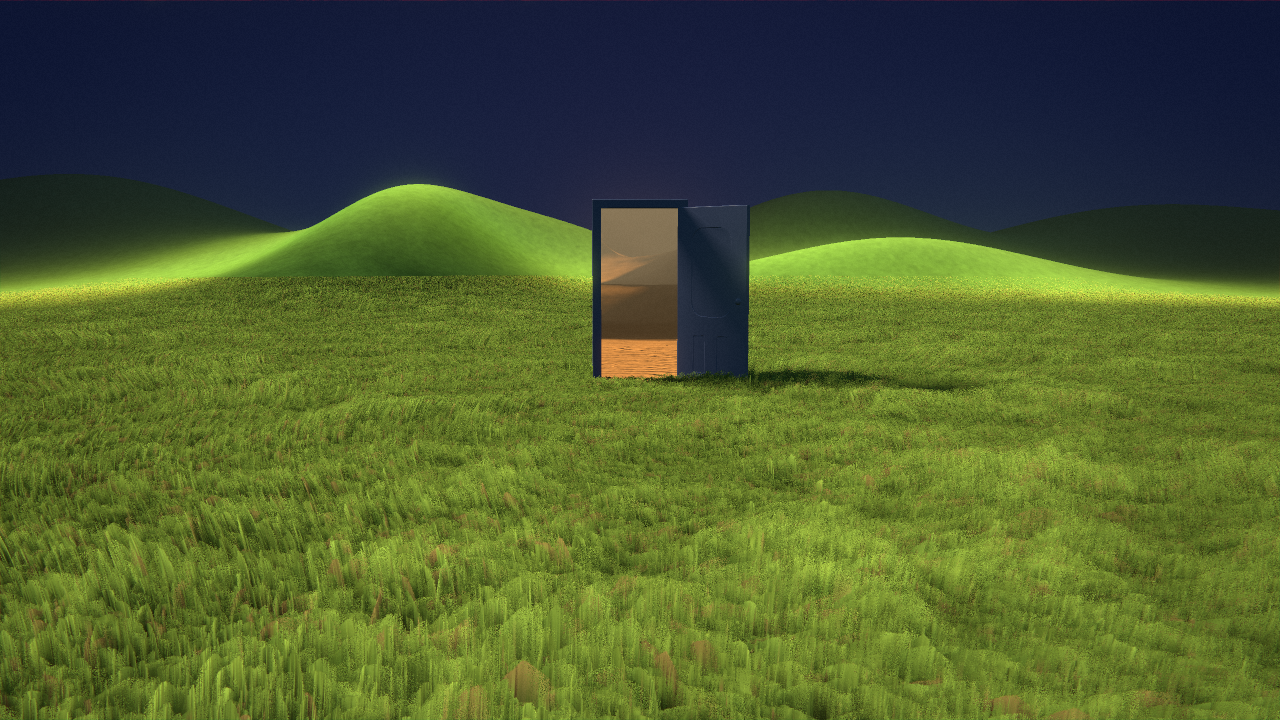
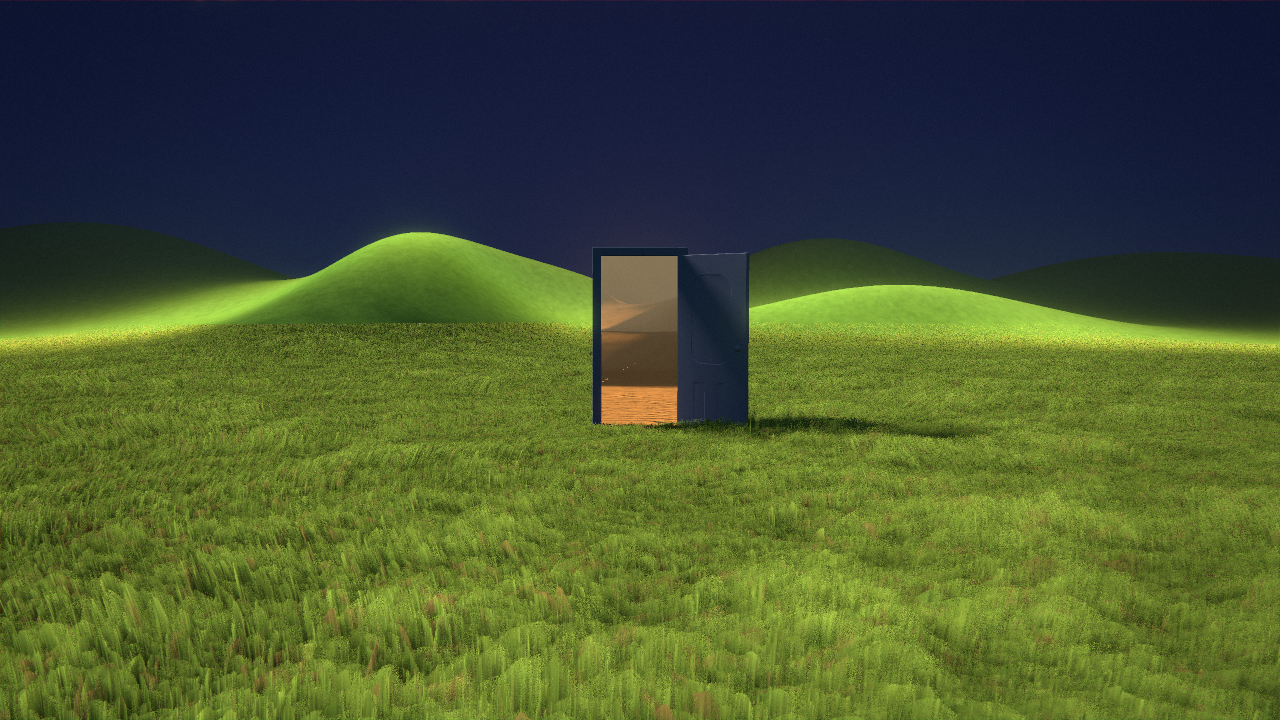
docs(dreamcore): tilt the camera up for more sky and less grass
Pitch goes from -0.11 to -0.06 rad, so the horizon sits lower in the frame: the
sky takes about 42% of the height instead of 36%, and the door drops a little.

Claude-Session: https://claude.ai/code/session_017PAyStfp59dbnWGB4mvN35

diff --git a/apps/docs/lib/examples-source.generated.ts b/apps/docs/lib/examples-source.generated.ts
@@ -82,7 +82,7 @@ export const exampleSources = {
     {
       "name": "example.ts",
       "lang": "typescript",
-      "code": "import type { Effect, Frame, Gpu, Surface, Target } from 'vgpu';\n\nimport bloomBlurWgsl from './bloom-blur.wgsl';\nimport bloomDownWgsl from './bloom-down.wgsl';\nimport bloomUpWgsl from './bloom-up.wgsl';\nimport brightPassWgsl from './bright-pass.wgsl';\nimport { createGrassTile, renderGrassTile, type GrassTile } from './grass-tile';\nimport postWgsl from './post.wgsl';\nimport sceneWgsl from './scene.wgsl';\n\ntype Output = Surface | Target;\n\ninterface ThumbOptions {\n  warmupFrames?: number;\n  dt?: number;\n  /** Seconds into the day/night cycle to freeze. */\n  time?: number;\n}\n\nexport interface DreamcoreFrameOptions {\n  /** 0 = night with the door glowing, 1 = full day. */\n  phase: number;\n  /** Seconds, only drives film grain. */\n  time?: number;\n  /** Samples per pixel: 1 for live rendering, 4 for quick stills, 9 or 16 for final renders. */\n  samples?: 1 | 4 | 9 | 16;\n  /** Full-quality grass march (96 steps); off drops to 28 steps for a cheaper live frame. */\n  grassShadows?: boolean;\n  /** Wind amplitude for the blades (0 for stills). */\n  wind?: number;\n  /**\n   * Debug views of the sand world behind the door: 1 = free camera at a door-local position,\n   * 2 = top-down map, 3 = the main camera inside the sand world (door and opening marked),\n   * 4 = the same without overlays.\n   */\n  debug?: { mode: 1 | 2 | 3 | 4; camera?: readonly [number, number, number] };\n  /** Camera and door overrides on top of LOOK, for exploring alternative framings. */\n  look?: DreamcoreLookOverrides;\n}\n\nexport interface DreamcoreLookOverrides {\n  camera?: Partial<{ height: number; pitch: number; fovY: number }>;\n  door?: Partial<{ x: number; z: number; yaw: number; leaf: number }>;\n  /** Flat sand of the sand world: where it starts falling away (m behind the sill), fall (tan), hollow depth (m, negative). */\n  plain?: Partial<{ tiltFrom: number; tilt: number; far: number }>;\n  /** The near dune beyond the hollow: start (m behind the sill), face slope (tan), crest (m), toe line skew (tan). */\n  dune?: Partial<{ start: number; slope: number; crest: number; skew: number }>;\n  /** Wind ripples on the flat sand: amplitude (m), wavelength (m), distance from the camera where they have faded (m), crest position (0..1 of the period, low = steep side toward the door). */\n  sand?: Partial<{ rippleAmp: number; rippleLen: number; rippleFade: number; rippleCrest: number }>;\n}\n\n/** One level of the bloom mip chain: its own blurred glow and the glow gathered from below. */\ninterface BloomLevel {\n  down: Effect | null;   // null on level 0, which the bright pass fills\n  blurH: Effect;\n  blurV: Effect;\n  up: Effect | null;     // null on the smallest level, which has nothing below it\n}\n\ninterface Effects {\n  scene: Effect;\n  grassTile: GrassTile;\n  brightPass: Effect;\n  bloom: BloomLevel[];\n  post: Effect;\n  sampler: GPUSampler;\n}\n\ninterface BloomTargets {\n  glow: Target;   // this level's blurred glow\n  temp: Target;   // half of the separable blur\n  acc: Target;    // glow gathered from this level down\n}\n\ninterface Targets {\n  scene: Target;\n  bloom: BloomTargets[];\n}\n\n/**\n * Unreal-style bloom: the bright pass lands at half resolution, then a chain of ever smaller\n * mips is downsampled, blurred one texel per tap, and summed back up through tent filters,\n * so the halo reaches across the frame without any pass skipping pixels.\n */\nconst BLOOM_LEVELS = 5;\nconst BLOOM_SIGMA = 2.6;\n/** Weight of each level's own glow when summing back up; the small mips carry the wide halo. */\nconst BLOOM_WEIGHTS = [0.45, 0.3, 0.25, 0.2, 0.2];   // per level, summing to about 1.4 so a large bright area does not pile up its own glow\n\nconst HDR_FORMAT: GPUTextureFormat = 'rgba16float';\nconst CLEAR: readonly [number, number, number, number] = [0, 0, 0, 1];\n\n/** Scene constants measured against the reference photos; see scene.wgsl for the units. */\nexport const LOOK = {\n  /** Standing eye height, level horizon; same vertical FOV for any aspect. */\n  camera: { height: 1.5, pitch: -0.11, fovY: 0.733 },\n  door: { x: 0, z: 11, yaw: 0, leaf: 2.5 },\n  sun: { azimuth: -1.15, elevation: 0.72 },\n  texture: 1,\n  doorLight: 10,\n  /** Blade patch around the door (radius in metres) and tallest blade height. */\n  grass: { radius: 60, height: 0.32 },\n  /** Rippled flat sand falling into a hollow, a backlit dune running in from the right, dunes growing to the horizon. */\n  plain: { tiltFrom: 3.0, tilt: 0.06, far: -3.0 },\n  dune: { start: 36, slope: 0.45, crest: 2.0, skew: 1.0 },\n  sand: { rippleAmp: 0.04, rippleLen: 0.35, rippleFade: 26, rippleCrest: 0.32 },\n  post: { exposure: 1.3, bloomStrength: 0.95, grain: 0.02, vignette: 0.3, nightThreshold: 0.16, dayThreshold: 0.7, knee: 0.1 },\n} as const;\n\n/** Night holds, the day sweeps out of the door, holds, then the night flows back in. */\nexport const CYCLE_SECONDS = 16;\n\n/** Default free-camera position (door-local metres) for the sand-world debug view. */\nconst DEBUG_CAMERA: readonly [number, number, number] = [-11, 4.5, -7];\n\nexport function phaseAt(seconds: number): number {\n  const t = ((seconds % CYCLE_SECONDS) + CYCLE_SECONDS) % CYCLE_SECONDS;\n  if (t < 2.5) return 0;\n  if (t < 9) return ease((t - 2.5) / 6.5);\n  if (t < 12.5) return 1;\n  return 1 - ease((t - 12.5) / 3.5);\n}\n\nfunction ease(x: number): number {\n  const c = Math.min(1, Math.max(0, x));\n  return c * c * (3 - 2 * c);\n}\n\nexport async function run(canvas: HTMLCanvasElement): Promise<() => void> {\n  const { init } = await import('vgpu');\n  const gpu = await init();\n  const surface = gpu.surface(canvas, { dpr: [1, 1.5] });\n  const effects = createEffects(gpu, 'dreamcore-live');\n  const targets = createTargets(gpu, surface.size, 'dreamcore-live');\n  let disposed = false;\n\n  setConstants(effects);\n  setBindings(effects, targets);\n  await prewarm(effects, targets, surface);\n  gpu.frame((frame) => renderGrassTile(frame, effects.grassTile));\n\n  let sawInitialResize = false;\n  const unsubscribeResize = surface.onResize(() => {\n    if (!sawInitialResize) {\n      sawInitialResize = true;\n      return;\n    }\n    if (disposed) return;\n    resizeTargets(targets, surface.size);\n    setBindings(effects, targets);\n  });\n\n  const handle = gpu.frame.loop((frame) => {\n    // Only the two animated values are written each frame; everything else stays as set.\n    setFrame(effects, { phase: phaseAt(gpu.time), time: gpu.time, samples: 1, grassShadows: false, wind: 1 });\n    renderChain(frame, effects, targets, surface);\n  });\n\n  return () => {\n    if (disposed) return;\n    disposed = true;\n    handle.stop();\n    unsubscribeResize();\n    surface.dispose();\n    gpu.dispose();\n  };\n}\n\nexport async function renderThumb(gpu: Gpu, target: Target, opts: ThumbOptions = {}): Promise<void> {\n  const effects = createEffects(gpu, 'dreamcore-thumb');\n  const targets = createTargets(gpu, target.size, 'dreamcore-thumb');\n  setConstants(effects);\n  setBindings(effects, targets);\n  await prewarm(effects, targets, target);\n  gpu.frame((frame) => renderGrassTile(frame, effects.grassTile));\n  const time = opts.time ?? 4.6;\n  renderFrame(gpu, effects, targets, target, { phase: phaseAt(time), time, samples: 4 });\n  await gpu.gpu.queue.onSubmittedWorkDone();\n  await gpu.settled();\n}\n\n/** Renders one still into `target`. Used by the headless keyframe script. */\nexport async function renderStill(gpu: Gpu, target: Target, frameOpts: DreamcoreFrameOptions): Promise<void> {\n  const effects = createEffects(gpu, 'dreamcore-still');\n  const targets = createTargets(gpu, target.size, 'dreamcore-still');\n  setConstants(effects);\n  setBindings(effects, targets);\n  await prewarm(effects, targets, target);\n  gpu.frame((frame) => renderGrassTile(frame, effects.grassTile));\n  renderFrame(gpu, effects, targets, target, frameOpts);\n  await gpu.gpu.queue.onSubmittedWorkDone();\n  await gpu.settled();\n}\n\nfunction createEffects(gpu: Gpu, label: string): Effects {\n  return {\n    scene: gpu.effect(sceneWgsl, { label: `${label}-scene` }),\n    grassTile: createGrassTile(gpu, 2048, `${label}-grass-tile`),\n    brightPass: gpu.effect(brightPassWgsl, { label: `${label}-bright-pass` }),\n    // Every pass owns its effect, and so its uniform buffer; sharing one would make each\n    // pass observe the last values written in the frame.\n    bloom: Array.from({ length: BLOOM_LEVELS }, (_, i) => ({\n      down: i === 0 ? null : gpu.effect(bloomDownWgsl, { label: `${label}-bloom-down-${i}` }),\n      blurH: gpu.effect(bloomBlurWgsl, { label: `${label}-bloom-blur-h-${i}` }),\n      blurV: gpu.effect(bloomBlurWgsl, { label: `${label}-bloom-blur-v-${i}` }),\n      up: i === BLOOM_LEVELS - 1 ? null : gpu.effect(bloomUpWgsl, { label: `${label}-bloom-up-${i}` }),\n    })),\n    post: gpu.effect(postWgsl, { label: `${label}-post` }),\n    sampler: gpu.sampler({ minFilter: 'linear', magFilter: 'linear', addressModeU: 'repeat', addressModeV: 'repeat' }),\n  };\n}\n\nfunction createTargets(gpu: Gpu, size: readonly [number, number], label: string): Targets {\n  const full = normalizeSize(size);\n  const bloom: BloomTargets[] = [];\n  let level = halfSize(full);\n  for (let i = 0; i < BLOOM_LEVELS; i++) {\n    bloom.push({\n      glow: gpu.target({ size: level, format: HDR_FORMAT, label: `${label}-bloom-${i}-glow` }),\n      temp: gpu.target({ size: level, format: HDR_FORMAT, label: `${label}-bloom-${i}-temp` }),\n      acc: gpu.target({ size: level, format: HDR_FORMAT, label: `${label}-bloom-${i}-acc` }),\n    });\n    level = halfSize(level);\n  }\n  return { scene: gpu.target({ size: full, format: HDR_FORMAT, label: `${label}-scene` }), bloom };\n}\n\nfunction setConstants(effects: Effects): void {\n  const { camera, door, sun, post, grass } = LOOK;\n  effects.scene.set({\n    params: {\n      time: 0,\n      phase: 0,\n      camera: [camera.height, camera.pitch, camera.fovY, 1],\n      door: [door.x, door.z, door.yaw, door.leaf],\n      look: [sun.azimuth, sun.elevation, LOOK.texture, LOOK.doorLight],\n      grass: [grass.radius, grass.height, 1, 0],\n      debug: [0, 0, 0, 0],\n      plain: [LOOK.plain.tiltFrom, LOOK.plain.tilt, 0, LOOK.plain.far],\n      dune: [LOOK.dune.start, LOOK.dune.slope, LOOK.dune.crest, LOOK.dune.skew],\n      sand: [LOOK.sand.rippleAmp, LOOK.sand.rippleLen, LOOK.sand.rippleFade, LOOK.sand.rippleCrest],\n    },\n  });\n  effects.brightPass.set({ samp: effects.sampler, bright: { threshold: post.nightThreshold, knee: post.knee } });\n  effects.bloom.forEach((level, i) => {\n    level.down?.set({ samp: effects.sampler });\n    level.blurH.set({ samp: effects.sampler, blur: { direction: [1, 0], sigma: BLOOM_SIGMA } });\n    level.blurV.set({ samp: effects.sampler, blur: { direction: [0, 1], sigma: BLOOM_SIGMA } });\n    level.up?.set({ samp: effects.sampler, up: { weight: BLOOM_WEIGHTS[i] ?? 1, _pad: 0 } });\n  });\n  effects.post.set({\n    samp: effects.sampler,\n    post: { exposure: post.exposure, bloomStrength: post.bloomStrength, grain: post.grain, vignette: post.vignette, seed: 0.37, _pad: 0 },\n  });\n}\n\nfunction setBindings(effects: Effects, targets: Targets): void {\n  const tile = effects.grassTile.target;\n  effects.scene.set({\n    params: { resolution: targets.scene.size },\n    tileColor: tile.colors[0],\n    tileTangent: tile.colors[1]!,\n    tileSamp: effects.sampler,\n  });\n  effects.brightPass.set({ src: targets.scene });\n  effects.bloom.forEach((level, i) => {\n    const mine = targets.bloom[i]!;\n    const above = targets.bloom[i - 1];\n    const below = targets.bloom[i + 1];\n    if (level.down && above) level.down.set({ src: above.glow, down: { texelSize: above.glow.texelSize } });\n    level.blurH.set({ src: mine.glow, blur: { texelSize: mine.glow.texelSize } });\n    level.blurV.set({ src: mine.temp, blur: { texelSize: mine.temp.texelSize } });\n    if (level.up && below) level.up.set({ own: mine.glow, smaller: below.acc, up: { texelSize: below.acc.texelSize } });\n  });\n  const last = targets.bloom[BLOOM_LEVELS - 1]!;\n  effects.post.set({ scene: targets.scene, bloom: targets.bloom[0]!.acc, post: { resolution: targets.scene.size } });\n  void last;\n}\n\nfunction setFrame(effects: Effects, frame: DreamcoreFrameOptions): void {\n  const phase = Math.min(1, Math.max(0, frame.phase));\n  const { post, grass } = LOOK;\n  const camera = { ...LOOK.camera, ...frame.look?.camera };\n  const door = { ...LOOK.door, ...frame.look?.door };\n  const plain = { ...LOOK.plain, ...frame.look?.plain };\n  const dune = { ...LOOK.dune, ...frame.look?.dune };\n  const sand = { ...LOOK.sand, ...frame.look?.sand };\n  effects.scene.set({\n    params: {\n      time: frame.time ?? 0,\n      phase,\n      camera: [camera.height, camera.pitch, camera.fovY, frame.samples ?? 1],\n      door: [door.x, door.z, door.yaw, door.leaf],\n      grass: [grass.radius, grass.height, frame.grassShadows === false ? 0 : 1, frame.wind ?? 0],\n      debug: frame.debug ? [frame.debug.mode, ...(frame.debug.camera ?? DEBUG_CAMERA)] : [0, 0, 0, 0],\n      plain: [plain.tiltFrom, plain.tilt, 0, plain.far],\n      dune: [dune.start, dune.slope, dune.crest, dune.skew],\n      sand: [sand.rippleAmp, sand.rippleLen, sand.rippleFade, sand.rippleCrest],\n    },\n  });\n  // The door only needs to bloom at night; by day the threshold rises so the field stays crisp.\n  effects.brightPass.set({ bright: { threshold: post.nightThreshold + (post.dayThreshold - post.nightThreshold) * phase } });\n  // Debug views skip the photographic finish so they stay readable.\n  const finish = frame.debug ? { bloomStrength: 0, grain: 0, vignette: 0 } : { bloomStrength: post.bloomStrength, grain: post.grain, vignette: post.vignette };\n  effects.post.set({ post: { seed: 0.37 + (frame.time ?? 0) * 0.01, ...finish } });\n}\n\nasync function prewarm(effects: Effects, targets: Targets, output: Output): Promise<void> {\n  const level0 = targets.bloom[0]!;\n  await Promise.all([\n    effects.scene.compile(targets.scene), effects.brightPass.compile(level0.glow), effects.grassTile.draw.compile(effects.grassTile.target),\n    ...effects.bloom.flatMap((level, i) => {\n      const mine = targets.bloom[i]!;\n      return [level.down?.compile(mine.glow), level.blurH.compile(mine.temp), level.blurV.compile(mine.glow), level.up?.compile(mine.acc)];\n    }),\n    effects.post.compile({ colors: [output.format] }),\n  ]);\n}\n\nfunction renderChain(frame: Frame, effects: Effects, targets: Targets, output: Output): void {\n  frame.pass({ target: targets.scene, clear: CLEAR }, (pass) => pass.draw(effects.scene));\n  // Down the chain: bright pass into level 0, then downsample and blur each level.\n  frame.pass({ target: targets.bloom[0]!.glow, clear: CLEAR }, (pass) => pass.draw(effects.brightPass));\n  effects.bloom.forEach((level, i) => {\n    const mine = targets.bloom[i]!;\n    if (level.down) frame.pass({ target: mine.glow, clear: CLEAR }, (pass) => pass.draw(level.down!));\n    frame.pass({ target: mine.temp, clear: CLEAR }, (pass) => pass.draw(level.blurH));\n    frame.pass({ target: mine.glow, clear: CLEAR }, (pass) => pass.draw(level.blurV));\n  });\n  // Back up: the smallest level is its own accumulation, every other adds the one below.\n  const smallest = targets.bloom[BLOOM_LEVELS - 1]!;\n  frame.pass({ target: smallest.acc, clear: CLEAR }, (pass) => pass.draw(effects.bloom[BLOOM_LEVELS - 1]!.blurV));\n  for (let i = BLOOM_LEVELS - 2; i >= 0; i--) {\n    frame.pass({ target: targets.bloom[i]!.acc, clear: CLEAR }, (pass) => pass.draw(effects.bloom[i]!.up!));\n  }\n  frame.pass({ target: output, clear: CLEAR }, (pass) => pass.draw(effects.post));\n}\n\nfunction renderFrame(gpu: Gpu, effects: Effects, targets: Targets, output: Target, frameOpts: DreamcoreFrameOptions): void {\n  setFrame(effects, frameOpts);\n  gpu.frame((frame) => renderChain(frame, effects, targets, output));\n}\n\nfunction resizeTargets(targets: Targets, size: readonly [number, number]): void {\n  const full = normalizeSize(size);\n  targets.scene.resize(full);\n  let level = halfSize(full);\n  for (const mip of targets.bloom) {\n    mip.glow.resize(level);\n    mip.temp.resize(level);\n    mip.acc.resize(level);\n    level = halfSize(level);\n  }\n}\n\nfunction normalizeSize(size: readonly [number, number]): [number, number] {\n  return [Math.max(1, Math.floor(size[0])), Math.max(1, Math.floor(size[1]))];\n}\n\nfunction halfSize(size: readonly [number, number]): [number, number] {\n  return [Math.max(1, Math.ceil(size[0] / 2)), Math.max(1, Math.ceil(size[1] / 2))];\n}\n"
+      "code": "import type { Effect, Frame, Gpu, Surface, Target } from 'vgpu';\n\nimport bloomBlurWgsl from './bloom-blur.wgsl';\nimport bloomDownWgsl from './bloom-down.wgsl';\nimport bloomUpWgsl from './bloom-up.wgsl';\nimport brightPassWgsl from './bright-pass.wgsl';\nimport { createGrassTile, renderGrassTile, type GrassTile } from './grass-tile';\nimport postWgsl from './post.wgsl';\nimport sceneWgsl from './scene.wgsl';\n\ntype Output = Surface | Target;\n\ninterface ThumbOptions {\n  warmupFrames?: number;\n  dt?: number;\n  /** Seconds into the day/night cycle to freeze. */\n  time?: number;\n}\n\nexport interface DreamcoreFrameOptions {\n  /** 0 = night with the door glowing, 1 = full day. */\n  phase: number;\n  /** Seconds, only drives film grain. */\n  time?: number;\n  /** Samples per pixel: 1 for live rendering, 4 for quick stills, 9 or 16 for final renders. */\n  samples?: 1 | 4 | 9 | 16;\n  /** Full-quality grass march (96 steps); off drops to 28 steps for a cheaper live frame. */\n  grassShadows?: boolean;\n  /** Wind amplitude for the blades (0 for stills). */\n  wind?: number;\n  /**\n   * Debug views of the sand world behind the door: 1 = free camera at a door-local position,\n   * 2 = top-down map, 3 = the main camera inside the sand world (door and opening marked),\n   * 4 = the same without overlays.\n   */\n  debug?: { mode: 1 | 2 | 3 | 4; camera?: readonly [number, number, number] };\n  /** Camera and door overrides on top of LOOK, for exploring alternative framings. */\n  look?: DreamcoreLookOverrides;\n}\n\nexport interface DreamcoreLookOverrides {\n  camera?: Partial<{ height: number; pitch: number; fovY: number }>;\n  door?: Partial<{ x: number; z: number; yaw: number; leaf: number }>;\n  /** Flat sand of the sand world: where it starts falling away (m behind the sill), fall (tan), hollow depth (m, negative). */\n  plain?: Partial<{ tiltFrom: number; tilt: number; far: number }>;\n  /** The near dune beyond the hollow: start (m behind the sill), face slope (tan), crest (m), toe line skew (tan). */\n  dune?: Partial<{ start: number; slope: number; crest: number; skew: number }>;\n  /** Wind ripples on the flat sand: amplitude (m), wavelength (m), distance from the camera where they have faded (m), crest position (0..1 of the period, low = steep side toward the door). */\n  sand?: Partial<{ rippleAmp: number; rippleLen: number; rippleFade: number; rippleCrest: number }>;\n}\n\n/** One level of the bloom mip chain: its own blurred glow and the glow gathered from below. */\ninterface BloomLevel {\n  down: Effect | null;   // null on level 0, which the bright pass fills\n  blurH: Effect;\n  blurV: Effect;\n  up: Effect | null;     // null on the smallest level, which has nothing below it\n}\n\ninterface Effects {\n  scene: Effect;\n  grassTile: GrassTile;\n  brightPass: Effect;\n  bloom: BloomLevel[];\n  post: Effect;\n  sampler: GPUSampler;\n}\n\ninterface BloomTargets {\n  glow: Target;   // this level's blurred glow\n  temp: Target;   // half of the separable blur\n  acc: Target;    // glow gathered from this level down\n}\n\ninterface Targets {\n  scene: Target;\n  bloom: BloomTargets[];\n}\n\n/**\n * Unreal-style bloom: the bright pass lands at half resolution, then a chain of ever smaller\n * mips is downsampled, blurred one texel per tap, and summed back up through tent filters,\n * so the halo reaches across the frame without any pass skipping pixels.\n */\nconst BLOOM_LEVELS = 5;\nconst BLOOM_SIGMA = 2.6;\n/** Weight of each level's own glow when summing back up; the small mips carry the wide halo. */\nconst BLOOM_WEIGHTS = [0.45, 0.3, 0.25, 0.2, 0.2];   // per level, summing to about 1.4 so a large bright area does not pile up its own glow\n\nconst HDR_FORMAT: GPUTextureFormat = 'rgba16float';\nconst CLEAR: readonly [number, number, number, number] = [0, 0, 0, 1];\n\n/** Scene constants measured against the reference photos; see scene.wgsl for the units. */\nexport const LOOK = {\n  /** Standing eye height, level horizon; same vertical FOV for any aspect. */\n  camera: { height: 1.5, pitch: -0.06, fovY: 0.733 },\n  door: { x: 0, z: 11, yaw: 0, leaf: 2.5 },\n  sun: { azimuth: -1.15, elevation: 0.72 },\n  texture: 1,\n  doorLight: 10,\n  /** Blade patch around the door (radius in metres) and tallest blade height. */\n  grass: { radius: 60, height: 0.32 },\n  /** Rippled flat sand falling into a hollow, a backlit dune running in from the right, dunes growing to the horizon. */\n  plain: { tiltFrom: 3.0, tilt: 0.06, far: -3.0 },\n  dune: { start: 36, slope: 0.45, crest: 2.0, skew: 1.0 },\n  sand: { rippleAmp: 0.04, rippleLen: 0.35, rippleFade: 26, rippleCrest: 0.32 },\n  post: { exposure: 1.3, bloomStrength: 0.95, grain: 0.02, vignette: 0.3, nightThreshold: 0.16, dayThreshold: 0.7, knee: 0.1 },\n} as const;\n\n/** Night holds, the day sweeps out of the door, holds, then the night flows back in. */\nexport const CYCLE_SECONDS = 16;\n\n/** Default free-camera position (door-local metres) for the sand-world debug view. */\nconst DEBUG_CAMERA: readonly [number, number, number] = [-11, 4.5, -7];\n\nexport function phaseAt(seconds: number): number {\n  const t = ((seconds % CYCLE_SECONDS) + CYCLE_SECONDS) % CYCLE_SECONDS;\n  if (t < 2.5) return 0;\n  if (t < 9) return ease((t - 2.5) / 6.5);\n  if (t < 12.5) return 1;\n  return 1 - ease((t - 12.5) / 3.5);\n}\n\nfunction ease(x: number): number {\n  const c = Math.min(1, Math.max(0, x));\n  return c * c * (3 - 2 * c);\n}\n\nexport async function run(canvas: HTMLCanvasElement): Promise<() => void> {\n  const { init } = await import('vgpu');\n  const gpu = await init();\n  const surface = gpu.surface(canvas, { dpr: [1, 1.5] });\n  const effects = createEffects(gpu, 'dreamcore-live');\n  const targets = createTargets(gpu, surface.size, 'dreamcore-live');\n  let disposed = false;\n\n  setConstants(effects);\n  setBindings(effects, targets);\n  await prewarm(effects, targets, surface);\n  gpu.frame((frame) => renderGrassTile(frame, effects.grassTile));\n\n  let sawInitialResize = false;\n  const unsubscribeResize = surface.onResize(() => {\n    if (!sawInitialResize) {\n      sawInitialResize = true;\n      return;\n    }\n    if (disposed) return;\n    resizeTargets(targets, surface.size);\n    setBindings(effects, targets);\n  });\n\n  const handle = gpu.frame.loop((frame) => {\n    // Only the two animated values are written each frame; everything else stays as set.\n    setFrame(effects, { phase: phaseAt(gpu.time), time: gpu.time, samples: 1, grassShadows: false, wind: 1 });\n    renderChain(frame, effects, targets, surface);\n  });\n\n  return () => {\n    if (disposed) return;\n    disposed = true;\n    handle.stop();\n    unsubscribeResize();\n    surface.dispose();\n    gpu.dispose();\n  };\n}\n\nexport async function renderThumb(gpu: Gpu, target: Target, opts: ThumbOptions = {}): Promise<void> {\n  const effects = createEffects(gpu, 'dreamcore-thumb');\n  const targets = createTargets(gpu, target.size, 'dreamcore-thumb');\n  setConstants(effects);\n  setBindings(effects, targets);\n  await prewarm(effects, targets, target);\n  gpu.frame((frame) => renderGrassTile(frame, effects.grassTile));\n  const time = opts.time ?? 4.6;\n  renderFrame(gpu, effects, targets, target, { phase: phaseAt(time), time, samples: 4 });\n  await gpu.gpu.queue.onSubmittedWorkDone();\n  await gpu.settled();\n}\n\n/** Renders one still into `target`. Used by the headless keyframe script. */\nexport async function renderStill(gpu: Gpu, target: Target, frameOpts: DreamcoreFrameOptions): Promise<void> {\n  const effects = createEffects(gpu, 'dreamcore-still');\n  const targets = createTargets(gpu, target.size, 'dreamcore-still');\n  setConstants(effects);\n  setBindings(effects, targets);\n  await prewarm(effects, targets, target);\n  gpu.frame((frame) => renderGrassTile(frame, effects.grassTile));\n  renderFrame(gpu, effects, targets, target, frameOpts);\n  await gpu.gpu.queue.onSubmittedWorkDone();\n  await gpu.settled();\n}\n\nfunction createEffects(gpu: Gpu, label: string): Effects {\n  return {\n    scene: gpu.effect(sceneWgsl, { label: `${label}-scene` }),\n    grassTile: createGrassTile(gpu, 2048, `${label}-grass-tile`),\n    brightPass: gpu.effect(brightPassWgsl, { label: `${label}-bright-pass` }),\n    // Every pass owns its effect, and so its uniform buffer; sharing one would make each\n    // pass observe the last values written in the frame.\n    bloom: Array.from({ length: BLOOM_LEVELS }, (_, i) => ({\n      down: i === 0 ? null : gpu.effect(bloomDownWgsl, { label: `${label}-bloom-down-${i}` }),\n      blurH: gpu.effect(bloomBlurWgsl, { label: `${label}-bloom-blur-h-${i}` }),\n      blurV: gpu.effect(bloomBlurWgsl, { label: `${label}-bloom-blur-v-${i}` }),\n      up: i === BLOOM_LEVELS - 1 ? null : gpu.effect(bloomUpWgsl, { label: `${label}-bloom-up-${i}` }),\n    })),\n    post: gpu.effect(postWgsl, { label: `${label}-post` }),\n    sampler: gpu.sampler({ minFilter: 'linear', magFilter: 'linear', addressModeU: 'repeat', addressModeV: 'repeat' }),\n  };\n}\n\nfunction createTargets(gpu: Gpu, size: readonly [number, number], label: string): Targets {\n  const full = normalizeSize(size);\n  const bloom: BloomTargets[] = [];\n  let level = halfSize(full);\n  for (let i = 0; i < BLOOM_LEVELS; i++) {\n    bloom.push({\n      glow: gpu.target({ size: level, format: HDR_FORMAT, label: `${label}-bloom-${i}-glow` }),\n      temp: gpu.target({ size: level, format: HDR_FORMAT, label: `${label}-bloom-${i}-temp` }),\n      acc: gpu.target({ size: level, format: HDR_FORMAT, label: `${label}-bloom-${i}-acc` }),\n    });\n    level = halfSize(level);\n  }\n  return { scene: gpu.target({ size: full, format: HDR_FORMAT, label: `${label}-scene` }), bloom };\n}\n\nfunction setConstants(effects: Effects): void {\n  const { camera, door, sun, post, grass } = LOOK;\n  effects.scene.set({\n    params: {\n      time: 0,\n      phase: 0,\n      camera: [camera.height, camera.pitch, camera.fovY, 1],\n      door: [door.x, door.z, door.yaw, door.leaf],\n      look: [sun.azimuth, sun.elevation, LOOK.texture, LOOK.doorLight],\n      grass: [grass.radius, grass.height, 1, 0],\n      debug: [0, 0, 0, 0],\n      plain: [LOOK.plain.tiltFrom, LOOK.plain.tilt, 0, LOOK.plain.far],\n      dune: [LOOK.dune.start, LOOK.dune.slope, LOOK.dune.crest, LOOK.dune.skew],\n      sand: [LOOK.sand.rippleAmp, LOOK.sand.rippleLen, LOOK.sand.rippleFade, LOOK.sand.rippleCrest],\n    },\n  });\n  effects.brightPass.set({ samp: effects.sampler, bright: { threshold: post.nightThreshold, knee: post.knee } });\n  effects.bloom.forEach((level, i) => {\n    level.down?.set({ samp: effects.sampler });\n    level.blurH.set({ samp: effects.sampler, blur: { direction: [1, 0], sigma: BLOOM_SIGMA } });\n    level.blurV.set({ samp: effects.sampler, blur: { direction: [0, 1], sigma: BLOOM_SIGMA } });\n    level.up?.set({ samp: effects.sampler, up: { weight: BLOOM_WEIGHTS[i] ?? 1, _pad: 0 } });\n  });\n  effects.post.set({\n    samp: effects.sampler,\n    post: { exposure: post.exposure, bloomStrength: post.bloomStrength, grain: post.grain, vignette: post.vignette, seed: 0.37, _pad: 0 },\n  });\n}\n\nfunction setBindings(effects: Effects, targets: Targets): void {\n  const tile = effects.grassTile.target;\n  effects.scene.set({\n    params: { resolution: targets.scene.size },\n    tileColor: tile.colors[0],\n    tileTangent: tile.colors[1]!,\n    tileSamp: effects.sampler,\n  });\n  effects.brightPass.set({ src: targets.scene });\n  effects.bloom.forEach((level, i) => {\n    const mine = targets.bloom[i]!;\n    const above = targets.bloom[i - 1];\n    const below = targets.bloom[i + 1];\n    if (level.down && above) level.down.set({ src: above.glow, down: { texelSize: above.glow.texelSize } });\n    level.blurH.set({ src: mine.glow, blur: { texelSize: mine.glow.texelSize } });\n    level.blurV.set({ src: mine.temp, blur: { texelSize: mine.temp.texelSize } });\n    if (level.up && below) level.up.set({ own: mine.glow, smaller: below.acc, up: { texelSize: below.acc.texelSize } });\n  });\n  const last = targets.bloom[BLOOM_LEVELS - 1]!;\n  effects.post.set({ scene: targets.scene, bloom: targets.bloom[0]!.acc, post: { resolution: targets.scene.size } });\n  void last;\n}\n\nfunction setFrame(effects: Effects, frame: DreamcoreFrameOptions): void {\n  const phase = Math.min(1, Math.max(0, frame.phase));\n  const { post, grass } = LOOK;\n  const camera = { ...LOOK.camera, ...frame.look?.camera };\n  const door = { ...LOOK.door, ...frame.look?.door };\n  const plain = { ...LOOK.plain, ...frame.look?.plain };\n  const dune = { ...LOOK.dune, ...frame.look?.dune };\n  const sand = { ...LOOK.sand, ...frame.look?.sand };\n  effects.scene.set({\n    params: {\n      time: frame.time ?? 0,\n      phase,\n      camera: [camera.height, camera.pitch, camera.fovY, frame.samples ?? 1],\n      door: [door.x, door.z, door.yaw, door.leaf],\n      grass: [grass.radius, grass.height, frame.grassShadows === false ? 0 : 1, frame.wind ?? 0],\n      debug: frame.debug ? [frame.debug.mode, ...(frame.debug.camera ?? DEBUG_CAMERA)] : [0, 0, 0, 0],\n      plain: [plain.tiltFrom, plain.tilt, 0, plain.far],\n      dune: [dune.start, dune.slope, dune.crest, dune.skew],\n      sand: [sand.rippleAmp, sand.rippleLen, sand.rippleFade, sand.rippleCrest],\n    },\n  });\n  // The door only needs to bloom at night; by day the threshold rises so the field stays crisp.\n  effects.brightPass.set({ bright: { threshold: post.nightThreshold + (post.dayThreshold - post.nightThreshold) * phase } });\n  // Debug views skip the photographic finish so they stay readable.\n  const finish = frame.debug ? { bloomStrength: 0, grain: 0, vignette: 0 } : { bloomStrength: post.bloomStrength, grain: post.grain, vignette: post.vignette };\n  effects.post.set({ post: { seed: 0.37 + (frame.time ?? 0) * 0.01, ...finish } });\n}\n\nasync function prewarm(effects: Effects, targets: Targets, output: Output): Promise<void> {\n  const level0 = targets.bloom[0]!;\n  await Promise.all([\n    effects.scene.compile(targets.scene), effects.brightPass.compile(level0.glow), effects.grassTile.draw.compile(effects.grassTile.target),\n    ...effects.bloom.flatMap((level, i) => {\n      const mine = targets.bloom[i]!;\n      return [level.down?.compile(mine.glow), level.blurH.compile(mine.temp), level.blurV.compile(mine.glow), level.up?.compile(mine.acc)];\n    }),\n    effects.post.compile({ colors: [output.format] }),\n  ]);\n}\n\nfunction renderChain(frame: Frame, effects: Effects, targets: Targets, output: Output): void {\n  frame.pass({ target: targets.scene, clear: CLEAR }, (pass) => pass.draw(effects.scene));\n  // Down the chain: bright pass into level 0, then downsample and blur each level.\n  frame.pass({ target: targets.bloom[0]!.glow, clear: CLEAR }, (pass) => pass.draw(effects.brightPass));\n  effects.bloom.forEach((level, i) => {\n    const mine = targets.bloom[i]!;\n    if (level.down) frame.pass({ target: mine.glow, clear: CLEAR }, (pass) => pass.draw(level.down!));\n    frame.pass({ target: mine.temp, clear: CLEAR }, (pass) => pass.draw(level.blurH));\n    frame.pass({ target: mine.glow, clear: CLEAR }, (pass) => pass.draw(level.blurV));\n  });\n  // Back up: the smallest level is its own accumulation, every other adds the one below.\n  const smallest = targets.bloom[BLOOM_LEVELS - 1]!;\n  frame.pass({ target: smallest.acc, clear: CLEAR }, (pass) => pass.draw(effects.bloom[BLOOM_LEVELS - 1]!.blurV));\n  for (let i = BLOOM_LEVELS - 2; i >= 0; i--) {\n    frame.pass({ target: targets.bloom[i]!.acc, clear: CLEAR }, (pass) => pass.draw(effects.bloom[i]!.up!));\n  }\n  frame.pass({ target: output, clear: CLEAR }, (pass) => pass.draw(effects.post));\n}\n\nfunction renderFrame(gpu: Gpu, effects: Effects, targets: Targets, output: Target, frameOpts: DreamcoreFrameOptions): void {\n  setFrame(effects, frameOpts);\n  gpu.frame((frame) => renderChain(frame, effects, targets, output));\n}\n\nfunction resizeTargets(targets: Targets, size: readonly [number, number]): void {\n  const full = normalizeSize(size);\n  targets.scene.resize(full);\n  let level = halfSize(full);\n  for (const mip of targets.bloom) {\n    mip.glow.resize(level);\n    mip.temp.resize(level);\n    mip.acc.resize(level);\n    level = halfSize(level);\n  }\n}\n\nfunction normalizeSize(size: readonly [number, number]): [number, number] {\n  return [Math.max(1, Math.floor(size[0])), Math.max(1, Math.floor(size[1]))];\n}\n\nfunction halfSize(size: readonly [number, number]): [number, number] {\n  return [Math.max(1, Math.ceil(size[0] / 2)), Math.max(1, Math.ceil(size[1] / 2))];\n}\n"
     },
     {
       "name": "grass-tile.ts",

diff --git a/apps/docs/examples/dreamcore/example.ts b/apps/docs/examples/dreamcore/example.ts
@@ -93,7 +93,7 @@ const CLEAR: readonly [number, number, number, number] = [0, 0, 0, 1];
 /** Scene constants measured against the reference photos; see scene.wgsl for the units. */
 export const LOOK = {
   /** Standing eye height, level horizon; same vertical FOV for any aspect. */
-  camera: { height: 1.5, pitch: -0.11, fovY: 0.733 },
+  camera: { height: 1.5, pitch: -0.06, fovY: 0.733 },
   door: { x: 0, z: 11, yaw: 0, leaf: 2.5 },
   sun: { azimuth: -1.15, elevation: 0.72 },
   texture: 1,
